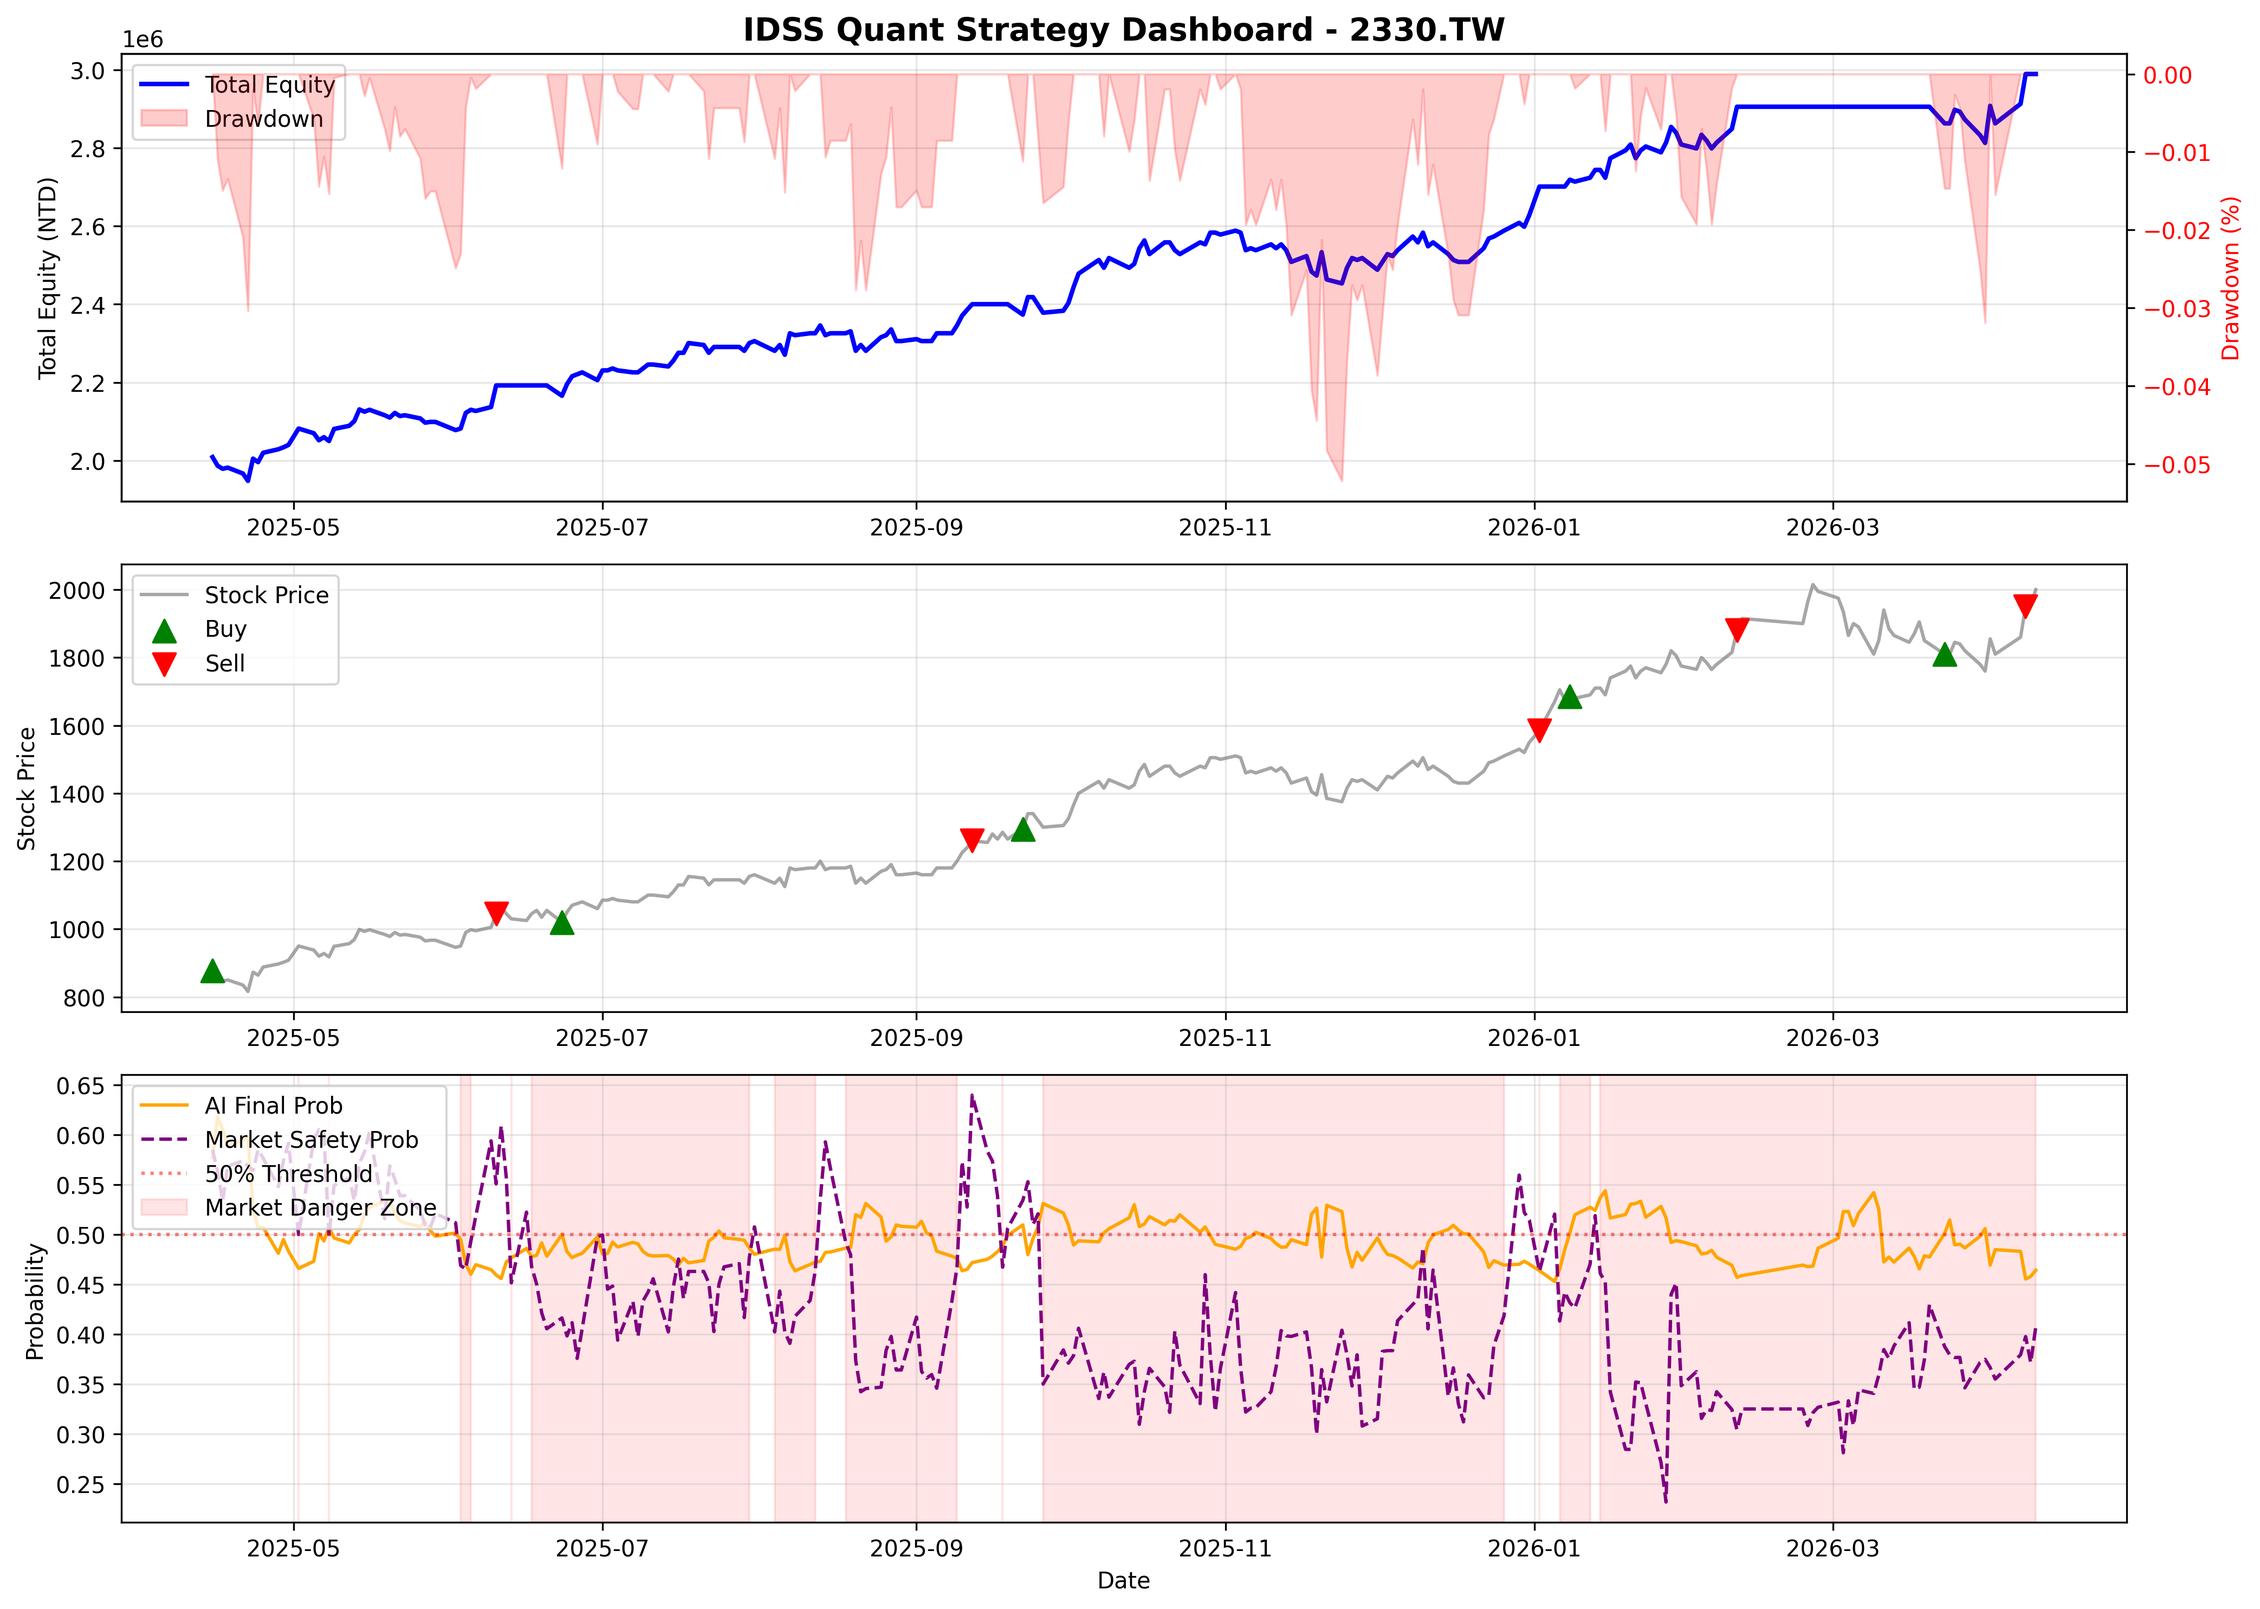
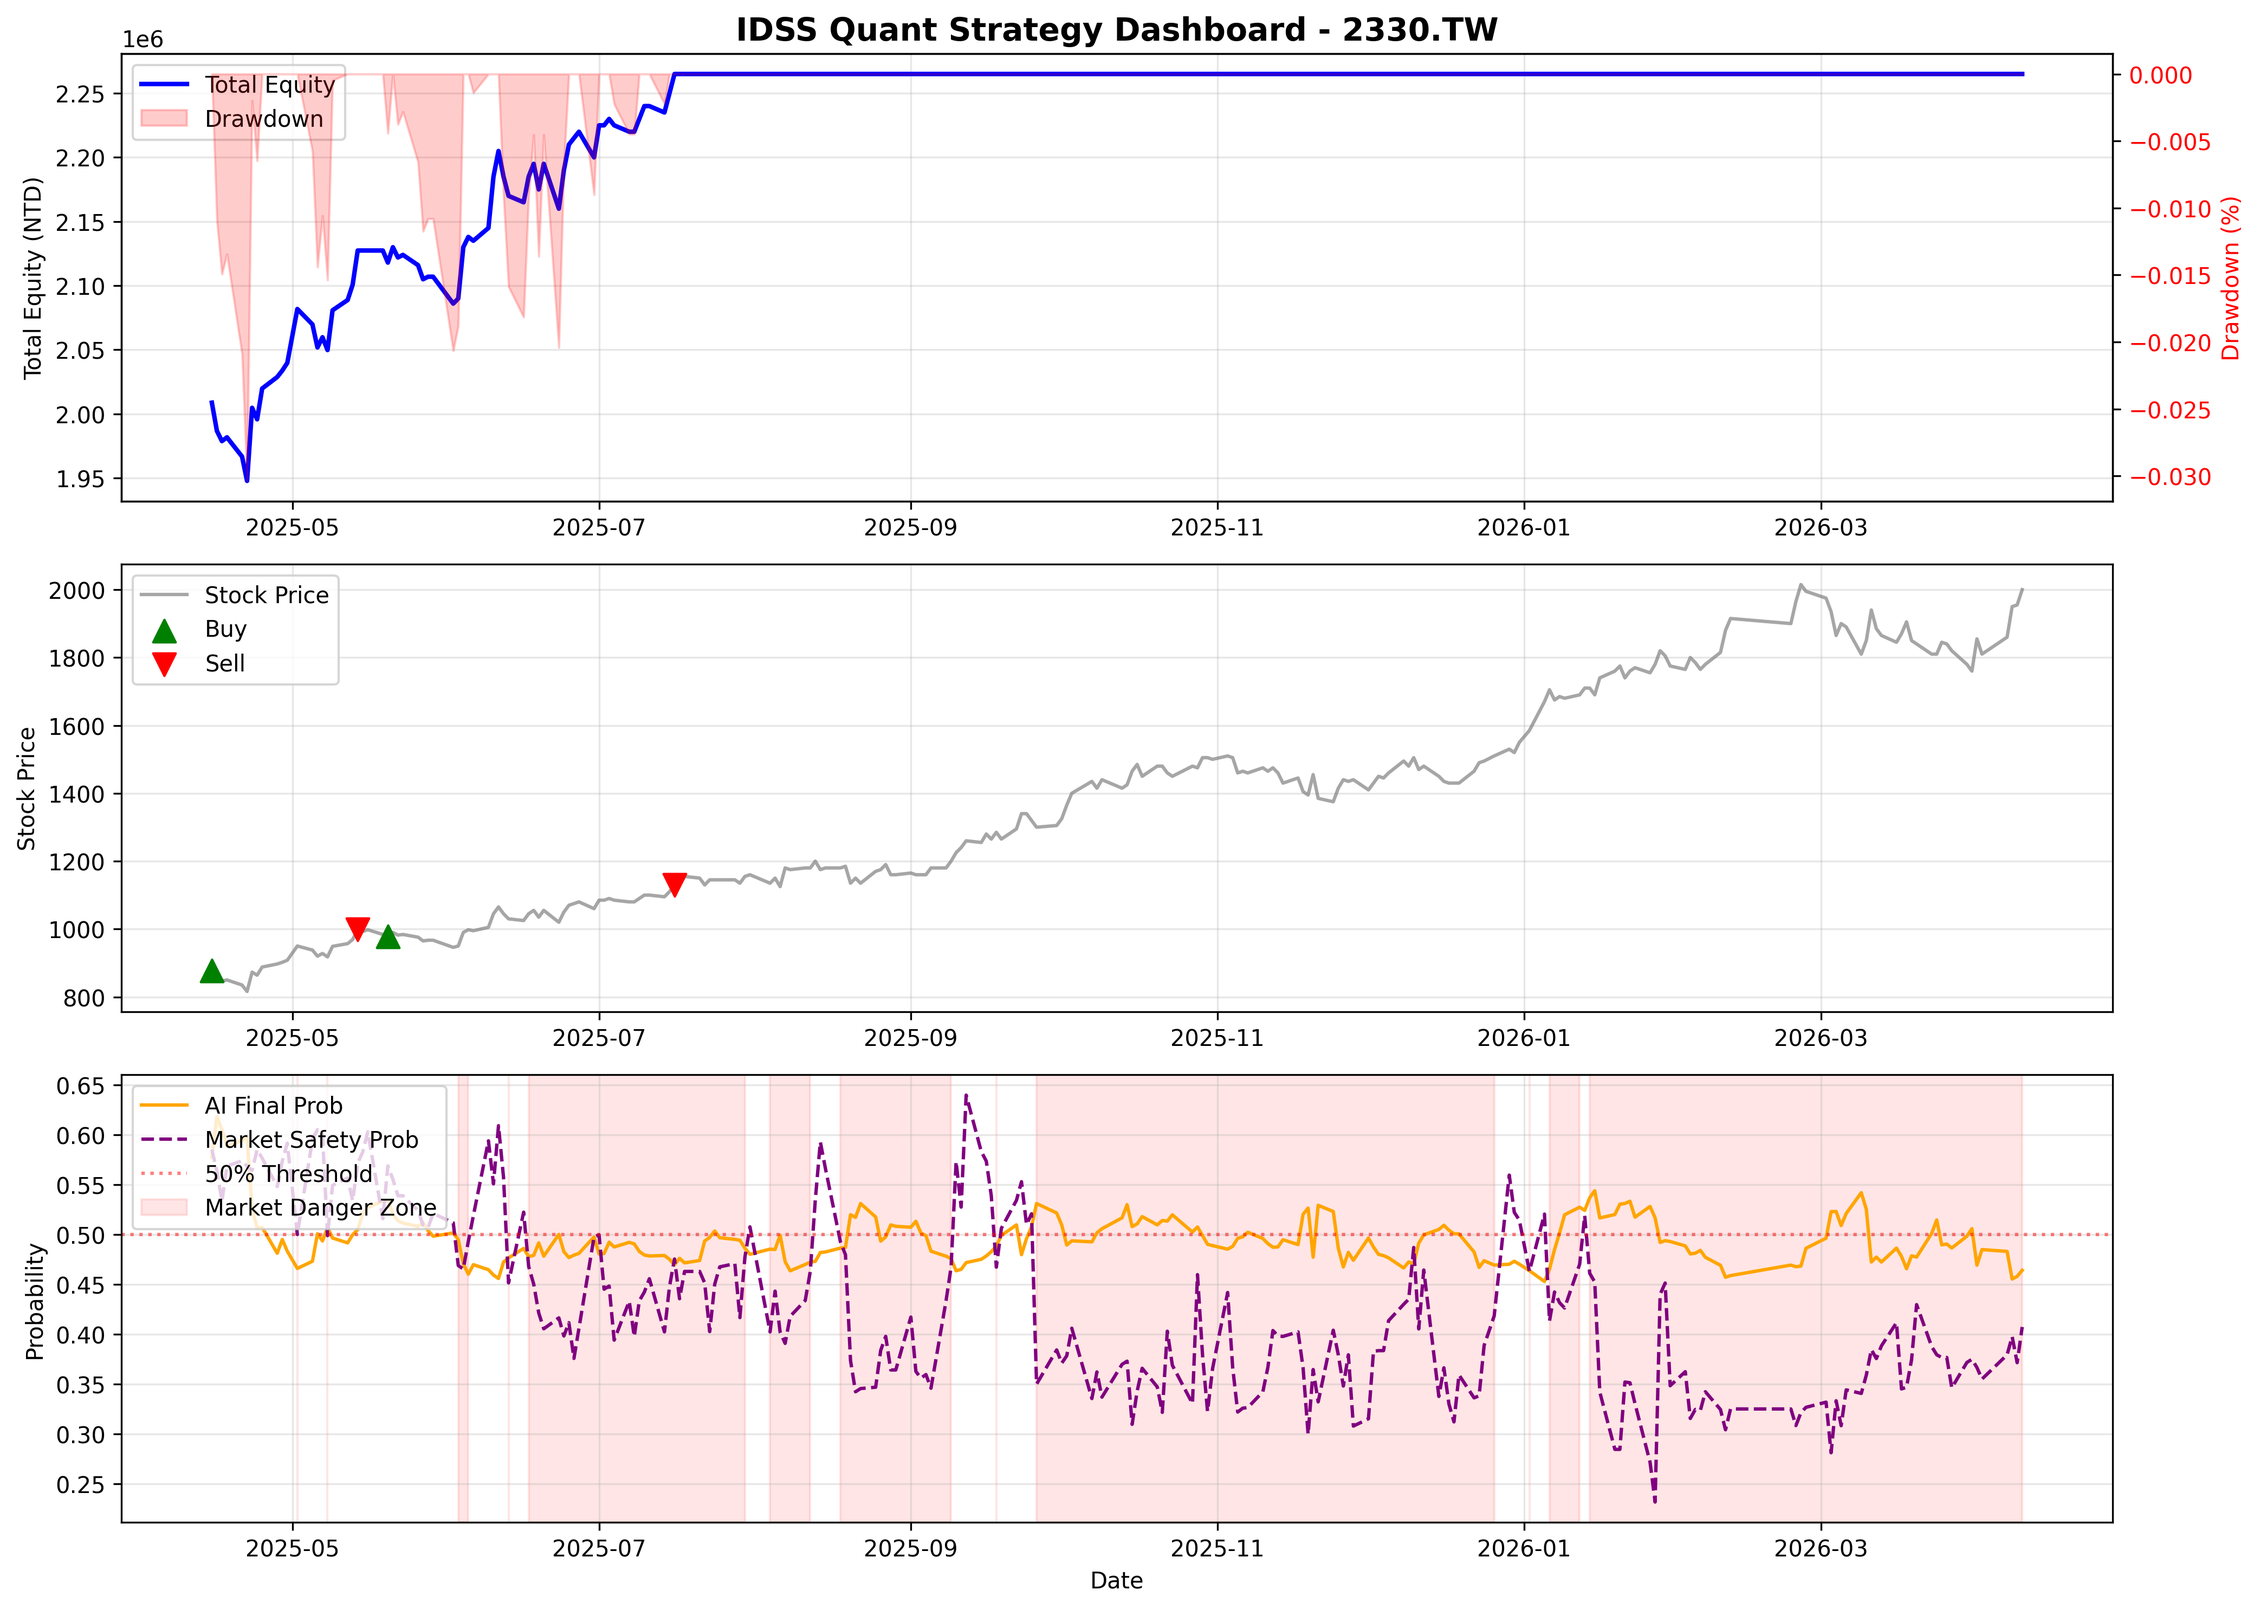
bt config MODERATE complete

diff --git a/src/bt/strategy_config.py b/src/bt/strategy_config.py
@@ -15,37 +15,41 @@ class RiskWeights:
 
 @dataclass
 class StrategyConfig:
-    """行為樹策略的基礎超參數容器 (此處預設值為 MODERATE 穩健型基底)"""
-    stop_loss_tolerance: float = -0.1       # 強制停損容忍度 (-10%)
-    trailing_stop_drawdown: float = -0.06   # 移動停損回落容忍度 (-6%)
-    stop_loss_sell_ratio: float = 1.0       # 觸發停損時的賣出比例 (100% 全面撤退)
+    """行為樹策略的基礎超參數容器 (已更新為 Optuna 尋優後的最強 MODERATE 基準)"""
 
-    sell_signal_threshold: float = 0.40      # AI 勝率低迷預警門檻 (<40%)
-    warning_sell_ratio: float = 0.5          # AI 預警時的戰術減碼比例 (賣出 50%)
+    # ================= 防守與出場參數 =================
+    stop_loss_tolerance: float = -0.09        # 強制停損容忍度 (原: -0.1)
+    trailing_stop_drawdown: float = -0.10     # 移動停損回落容忍度 (原: -0.06)
+    stop_loss_sell_ratio: float = 0.8         # 觸發停損時的賣出比例 (原: 1.0)
 
-    take_profit_target: float = 0.10         # 極端停利目標 (+10%)
-    take_profit_sell_ratio: float = 0.5      # 觸發極端停利時的減碼比例 (先入袋 50%)
+    sell_signal_threshold: float = 0.30       # AI 勝率低迷預警門檻 (原: 0.40)
+    warning_sell_ratio: float = 0.3           # AI 預警時的戰術減碼比例 (原: 0.5)
+
+    take_profit_target: float = 0.13          # 極端停利目標 (原: 0.10)
+    take_profit_sell_ratio: float = 1.0       # 觸發極端停利時的減碼比例 (原: 0.5)
 
     # ================= 進攻與資金控管參數 =================
-    max_entries: int = 3                     # 單一波段最大加碼次數
-    max_gap_ratio: float = 0.07              # 低價股的跳空容忍度
+    max_entries: int = 2                      # 單一波段最大加碼次數 (原: 3)
+    max_gap_ratio: float = 0.04               # 低價股的跳空容忍度 (原: 0.07)
 
-    strong_buy_threshold: float = 0.6        # 強烈買進訊號門檻 (>= 60%)
-    strong_buy_capital_ratio: float = 1.0    # 強烈買進時動用的資金比例 (100%)
+    strong_buy_threshold: float = 0.51        # 強烈買進訊號門檻 (原: 0.6)
+    strong_buy_capital_ratio: float = 1.0     # 強烈買進時動用的資金比例 (原: 1.0)
 
-    conservative_buy_threshold: float = 0.55 # 保守買進訊號門檻 (>= 55%)
-    conservative_buy_capital_ratio: float = 0.5 # 保守買進時動用的資金比例 (50%)
+    conservative_buy_threshold: float = 0.50  # 保守買進訊號門檻 (原: 0.55)
+    conservative_buy_capital_ratio: float = 0.3 # 保守買進時動用的資金比例 (原: 0.5)
 
     # ================= 大盤防禦雷達門檻 =================
-    safe_threshold: float = 0.45
-    cooldown_days: int = 2
+    safe_threshold: float = 0.36              # 大盤安全度門檻 (原: 0.45)
+    cooldown_days: int = 3                    # 交易冷卻天數 (原: 2)
 
-    max_return_5d: float = 0.3
-    max_bias_20: float = 0.25
+    max_return_5d: float = 0.36               # 5日漲幅過熱門檻 (原: 0.3)
+    max_bias_20: float = 0.20                 # 20日乖離率過熱門檻 (原: 0.25)
 
     # ================= 動態水位風控參數 =================
-    buy_risk: RiskWeights = field(default_factory=lambda: RiskWeights(heavy=0.2, light=0.1))
-    sell_risk: RiskWeights = field(default_factory=lambda: RiskWeights(heavy=0.1, light=0.05))
+    # 買進風險懲罰 (原: heavy=0.2, light=0.1)
+    buy_risk: RiskWeights = field(default_factory=lambda: RiskWeights(heavy=0.15, light=0.12))
+    # 賣出風險敏感 (原: heavy=0.1, light=0.05)
+    sell_risk: RiskWeights = field(default_factory=lambda: RiskWeights(heavy=0.10, light=0.03))
 
     # ================= LLM 總開關 =================
     enable_llm_oracle: bool = False

diff --git a/src/bt_persona_comparison.py b/src/bt_persona_comparison.py
@@ -35,14 +35,22 @@ def run_multi_stock_backtest():
 
     # 1. 定義測試池
     test_tickers = [
-        "2330.TW", "2409.TW", "2388.TW", "2324.TW", "0050.TW",
-        "3481.TW", "0052.TW", "2481.TW", "2603.TW", "2881.TW",
+        "2324.TW",
+        "3481.TW", "0052.TW", "2481.TW",
         "2344.TW", "4919.TW", "3231.TW", "2455.TW", "9958.TW",
-        "3006.TW", "2301.TW", "4916.TW", "2317.TW"
+        "3006.TW", "2301.TW", "4916.TW"
     ]
+    # test_tickers = [
+    #     "2330.TW", "2409.TW", "2388.TW", "2324.TW", "0050.TW",
+    #     "3481.TW", "0052.TW", "2481.TW", "2603.TW", "2881.TW",
+    #     "2344.TW", "4919.TW", "3231.TW", "2455.TW", "9958.TW",
+    #     "3006.TW", "2301.TW", "4916.TW", "2317.TW"
+    # ]
 
     INITIAL_CASH = 5_000_000
     OOS_DAYS = 240
+    Persona = [TradingPersona.MODERATE]
+    # Persona = [TradingPersona.AGGRESSIVE, TradingPersona.MODERATE, TradingPersona.CONSERVATIVE]
     all_results = []
 
     # 2. 執行雙層迴圈 (股票 x 個性)
@@ -53,7 +61,7 @@ def run_multi_stock_backtest():
 
         print(f"📊 開始對 {ticker} 進行三種性格交叉測試：")
 
-        for persona in [TradingPersona.AGGRESSIVE, TradingPersona.MODERATE, TradingPersona.CONSERVATIVE]:
+        for persona in Persona:
             strategy_config = PersonaFactory.get_config(persona)
             strategy_config.enable_llm_oracle = False
 

diff --git a/src/bt/backtest.py b/src/bt/backtest.py
@@ -257,18 +257,18 @@ class BacktestEngine:
 
         plt.tight_layout()
 
-        try:
-            report_img_path = PathConfig.get_chart_report_path(ticker=self.bb.ticker)
-            report_img_path.parent.mkdir(parents=True, exist_ok=True)
+        # try:
+        #     report_img_path = PathConfig.get_chart_report_path(ticker=self.bb.ticker)
+        #     report_img_path.parent.mkdir(parents=True, exist_ok=True)
 
-            fig.savefig(str(report_img_path), dpi=300, bbox_inches='tight')
-            dbg.log(f"📸 儀表板圖片已自動儲存至: {report_img_path}")
+        #     fig.savefig(str(report_img_path), dpi=300, bbox_inches='tight')
+        #     dbg.log(f"📸 儀表板圖片已自動儲存至: {report_img_path}")
 
-        except Exception as e:
-            dbg.error(f"圖片存檔失敗: {e}")
+        # except Exception as e:
+        #     dbg.error(f"圖片存檔失敗: {e}")
 
-        finally:
-            plt.close(fig)
+        # finally:
+        #     plt.close(fig)
 
         stats = {
             "initial_cash": self.initial_cash,

diff --git a/src/bt_congig_tuning.py b/src/bt_congig_tuning.py
@@ -1,5 +1,3 @@
-from pathlib import Path
-
 import numpy as np
 import optuna
 from tqdm import tqdm
